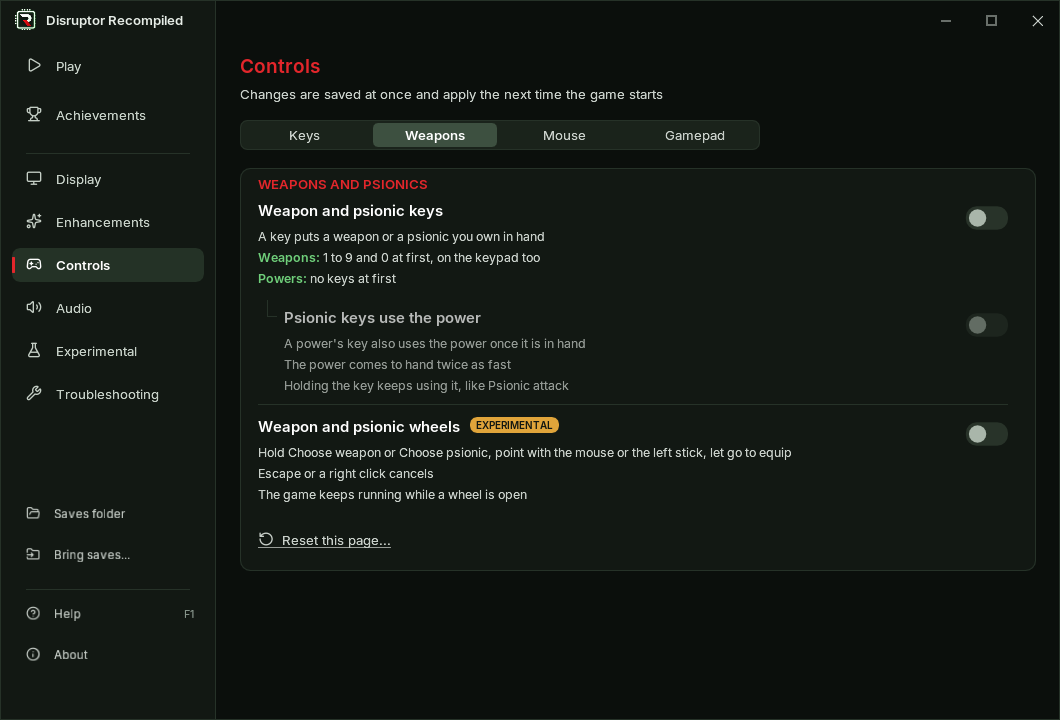
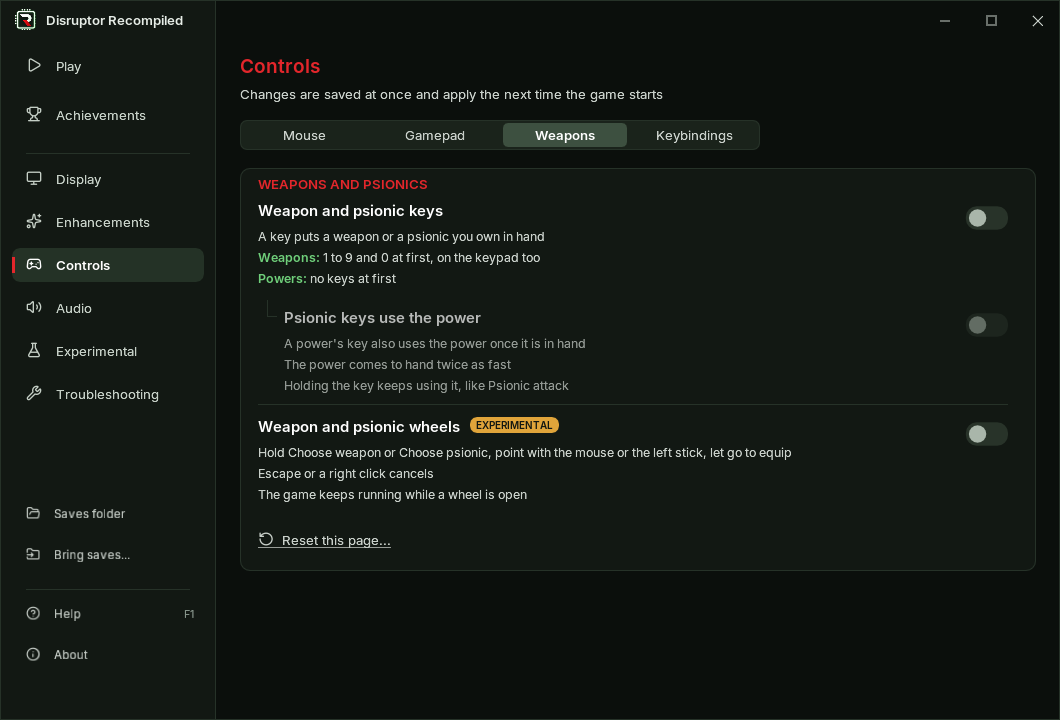
feat: order the launcher's Controls tabs Mouse, Gamepad, Weapons, Keybindings

Changed region(s): [[0.3425, 0.1528, 0.5915, 0.2139], [0.6226, 0.1833, 0.6849, 0.2139], [0.2491, 0.1833, 0.3113, 0.2139]]

diff --git a/src/launcher/view.cpp b/src/launcher/view.cpp
@@ -1479,9 +1479,8 @@ void View::settings() {
     const bool controls = page_ == static_cast<int>(Page::controls);
     bool tab_changed = false;
     if (controls) {
-        static constexpr const char* tabs[] = {"Keys", "Weapons", "Mouse", "Gamepad"};
-        controls_tab_ = std::clamp(controls_tab_, 0, static_cast<int>(std::size(tabs)) - 1);
-        tab_changed = segmented("controls tabs", &controls_tab_, tabs, std::min(ImGui::GetContentRegionAvail().x, 520.0f * scale_));
+        controls_tab_ = std::clamp(controls_tab_, 0, static_cast<int>(std::size(kControlsTabs)) - 1);
+        tab_changed = segmented("controls tabs", &controls_tab_, kControlsTabs, std::min(ImGui::GetContentRegionAvail().x, 520.0f * scale_));
         if (tab_changed) {
             listening_.clear();
             stop_pad_capture();
@@ -1515,7 +1514,7 @@ void View::settings() {
     if (page_ == static_cast<int>(Page::achievements)) achievements_account();
     if (page_rows_shown(static_cast<Page>(page_))) rows();
     else coming_soon();
-    if (controls && controls_tab_ == 3) pad_buttons();
+    if (controls && controls_tab_ == static_cast<int>(ControlsTab::gamepad)) pad_buttons();
     const char* note = page_notes[std::clamp(page_, 0, static_cast<int>(std::size(page_notes)) - 1)];
     if (*note) {
         ImGui::Spacing();
@@ -2731,7 +2730,7 @@ void View::rows() {
         for (const int sample : {option.lowest, file.highest(option)})
             value_width_ = std::max(value_width_, ImGui::CalcTextSize(text_of(value_text(option, sample)).c_str()).x);
     }
-    int tab = 0;
+    int tab = static_cast<int>(ControlsTab::keys);
     bool first = true;
     for (const auto& placement : layout()) {
         const Option& option = *find_option(placement.key);
@@ -2742,9 +2741,10 @@ void View::rows() {
             continue;
         if (placement.group) {
             const std::string_view group(placement.group);
-            tab = group == "Weapons and psionics" ? 1 : group == "Mouse look" ? 2 : group == "Gamepad" ? 3 : 0;
-            // The keyboard's keys follow the scheme that sets them, at the foot of the first tab.
-            if (tabbed && tab == 1 && controls_tab_ == 0) key_table();
+            const int keys = static_cast<int>(ControlsTab::keys);
+            // The keyboard's keys follow the scheme that sets them, at the foot of the Keybindings tab.
+            if (tabbed && tab == keys && controls_tab_ == keys && controls_tab_of(group) != ControlsTab::keys) key_table();
+            tab = static_cast<int>(controls_tab_of(group));
         }
         if (tabbed && tab != controls_tab_) continue;
         ImGui::PushID(option.key);

diff --git a/tests/unit/launcher_settings_test.cpp b/tests/unit/launcher_settings_test.cpp
@@ -837,6 +837,23 @@ void runtime_defaults() {
 }
 } // namespace
 
+void controls_tabs() {
+    require(std::string_view(kControlsTabs[0]) == "Mouse" && std::string_view(kControlsTabs[1]) == "Gamepad" &&
+                std::string_view(kControlsTabs[2]) == "Weapons" && std::string_view(kControlsTabs[3]) == "Keybindings",
+            "the Controls tabs go Mouse, Gamepad, Weapons, Keybindings");
+    require(controls_tab_of("Mouse look") == ControlsTab::mouse && controls_tab_of("Gamepad") == ControlsTab::gamepad &&
+                controls_tab_of("Weapons and psionics") == ControlsTab::weapons && controls_tab_of("Scheme") == ControlsTab::keys,
+            "each group of the Controls page stands on its tab, the scheme on Keybindings");
+    std::set<ControlsTab> shown;
+    ControlsTab tab = ControlsTab::keys;
+    for (const auto& row : layout()) {
+        if (row.page != Page::controls) continue;
+        if (row.group) tab = controls_tab_of(row.group);
+        shown.insert(tab);
+    }
+    require(shown.size() == std::size(kControlsTabs), "every tab of the Controls page holds rows");
+}
+
 int main() {
     const fs::path folder = fs::temp_directory_path() /
                             ("disruptor-launcher-settings-" + std::to_string(std::chrono::steady_clock::now().time_since_epoch().count()));
@@ -848,6 +865,7 @@ int main() {
         carried();
         needed();
         placements();
+        controls_tabs();
         antialiasing_list();
         draw_distance_list();
         fog_shape_list();

diff --git a/tests/unit/launcher_navigation_test.py b/tests/unit/launcher_navigation_test.py
@@ -126,7 +126,7 @@ def check(launcher: Path, folder: Path) -> None:
         "the wheel over the page's margin scrolls the card a step as long as the wheel over the card",
     )
 
-    keys = drive(launcher, folder, "keys", "Tab Tab Tab Tab Tab Tab Tab Space K Tab", page=2)
+    keys = drive(launcher, folder, "keys", "Tab Tab Tab Tab Tab Tab Tab Space K Tab", page=2, tab=3)
     require(" key up" in keys[7].view, "Space on the Move forward button waits for a key")
     require(" key " not in keys[8].view, "the next key is taken by the button that waited")
     require(
@@ -169,7 +169,7 @@ def check(launcher: Path, folder: Path) -> None:
 
     # The Gamepad tab's stops: four tabs, the layout's three parts, two turning sliders, the dead zone, then Fire, confirm.
     steps = " ".join(["Tab"] * 11) + " Pad:A Pad:A Pad:A Pad:B Pad:A Pad:Down Pad:B Pad:Down"
-    capture = drive(launcher, folder, "capture", steps, page=2, tab=3, pad=True)
+    capture = drive(launcher, folder, "capture", steps, page=2, tab=1, pad=True)
     first = capture[10].place, capture[10].scroll
     require(" button " in capture[11].view, "A on a gamepad button waits for the new button")
     require(

diff --git a/src/launcher/launcher_settings.cpp b/src/launcher/launcher_settings.cpp
@@ -101,6 +101,13 @@ bool listed(const std::vector<std::string>& discs, const std::string& path) {
 }
 } // namespace
 
+ControlsTab controls_tab_of(std::string_view group) {
+    if (group == "Mouse look") return ControlsTab::mouse;
+    if (group == "Gamepad") return ControlsTab::gamepad;
+    if (group == "Weapons and psionics") return ControlsTab::weapons;
+    return ControlsTab::keys;
+}
+
 std::span<const Placement> layout() { return placed; }
 std::span<const wchar_t* const> page_labels() { return pages; }
 bool page_rows_shown(Page page, bool dev_tools) { return dev_tools || page != Page::experimental; }

diff --git a/src/launcher/launcher_settings.h b/src/launcher/launcher_settings.h
@@ -31,6 +31,10 @@ struct Placement {
 };
 
 std::span<const Placement> layout();
+// The Controls page's tabs in the order shown, and the tab a group of it stands on: the scheme and its keys on Keybindings.
+enum class ControlsTab { mouse, gamepad, weapons, keys };
+inline constexpr const char* kControlsTabs[] = {"Mouse", "Gamepad", "Weapons", "Keybindings"};
+ControlsTab controls_tab_of(std::string_view group);
 // A row still being tried on a page other than Experimental: it carries a tag beside its name.
 bool experimental(const Option& option);
 std::span<const wchar_t* const> page_labels();

diff --git a/README.md b/README.md
@@ -56,7 +56,7 @@
     <td valign="top">
       <img src="docs/images/controls.png" alt="The Controls page" width="100%"><br>
       <b>Controls</b><br>
-      Weapon and psionic keys, mouse, gamepad
+      Mouse, gamepad, weapon and psionic keys
     </td>
     <td valign="top">
       <img src="docs/images/keys.png" alt="The key table" width="100%"><br>
